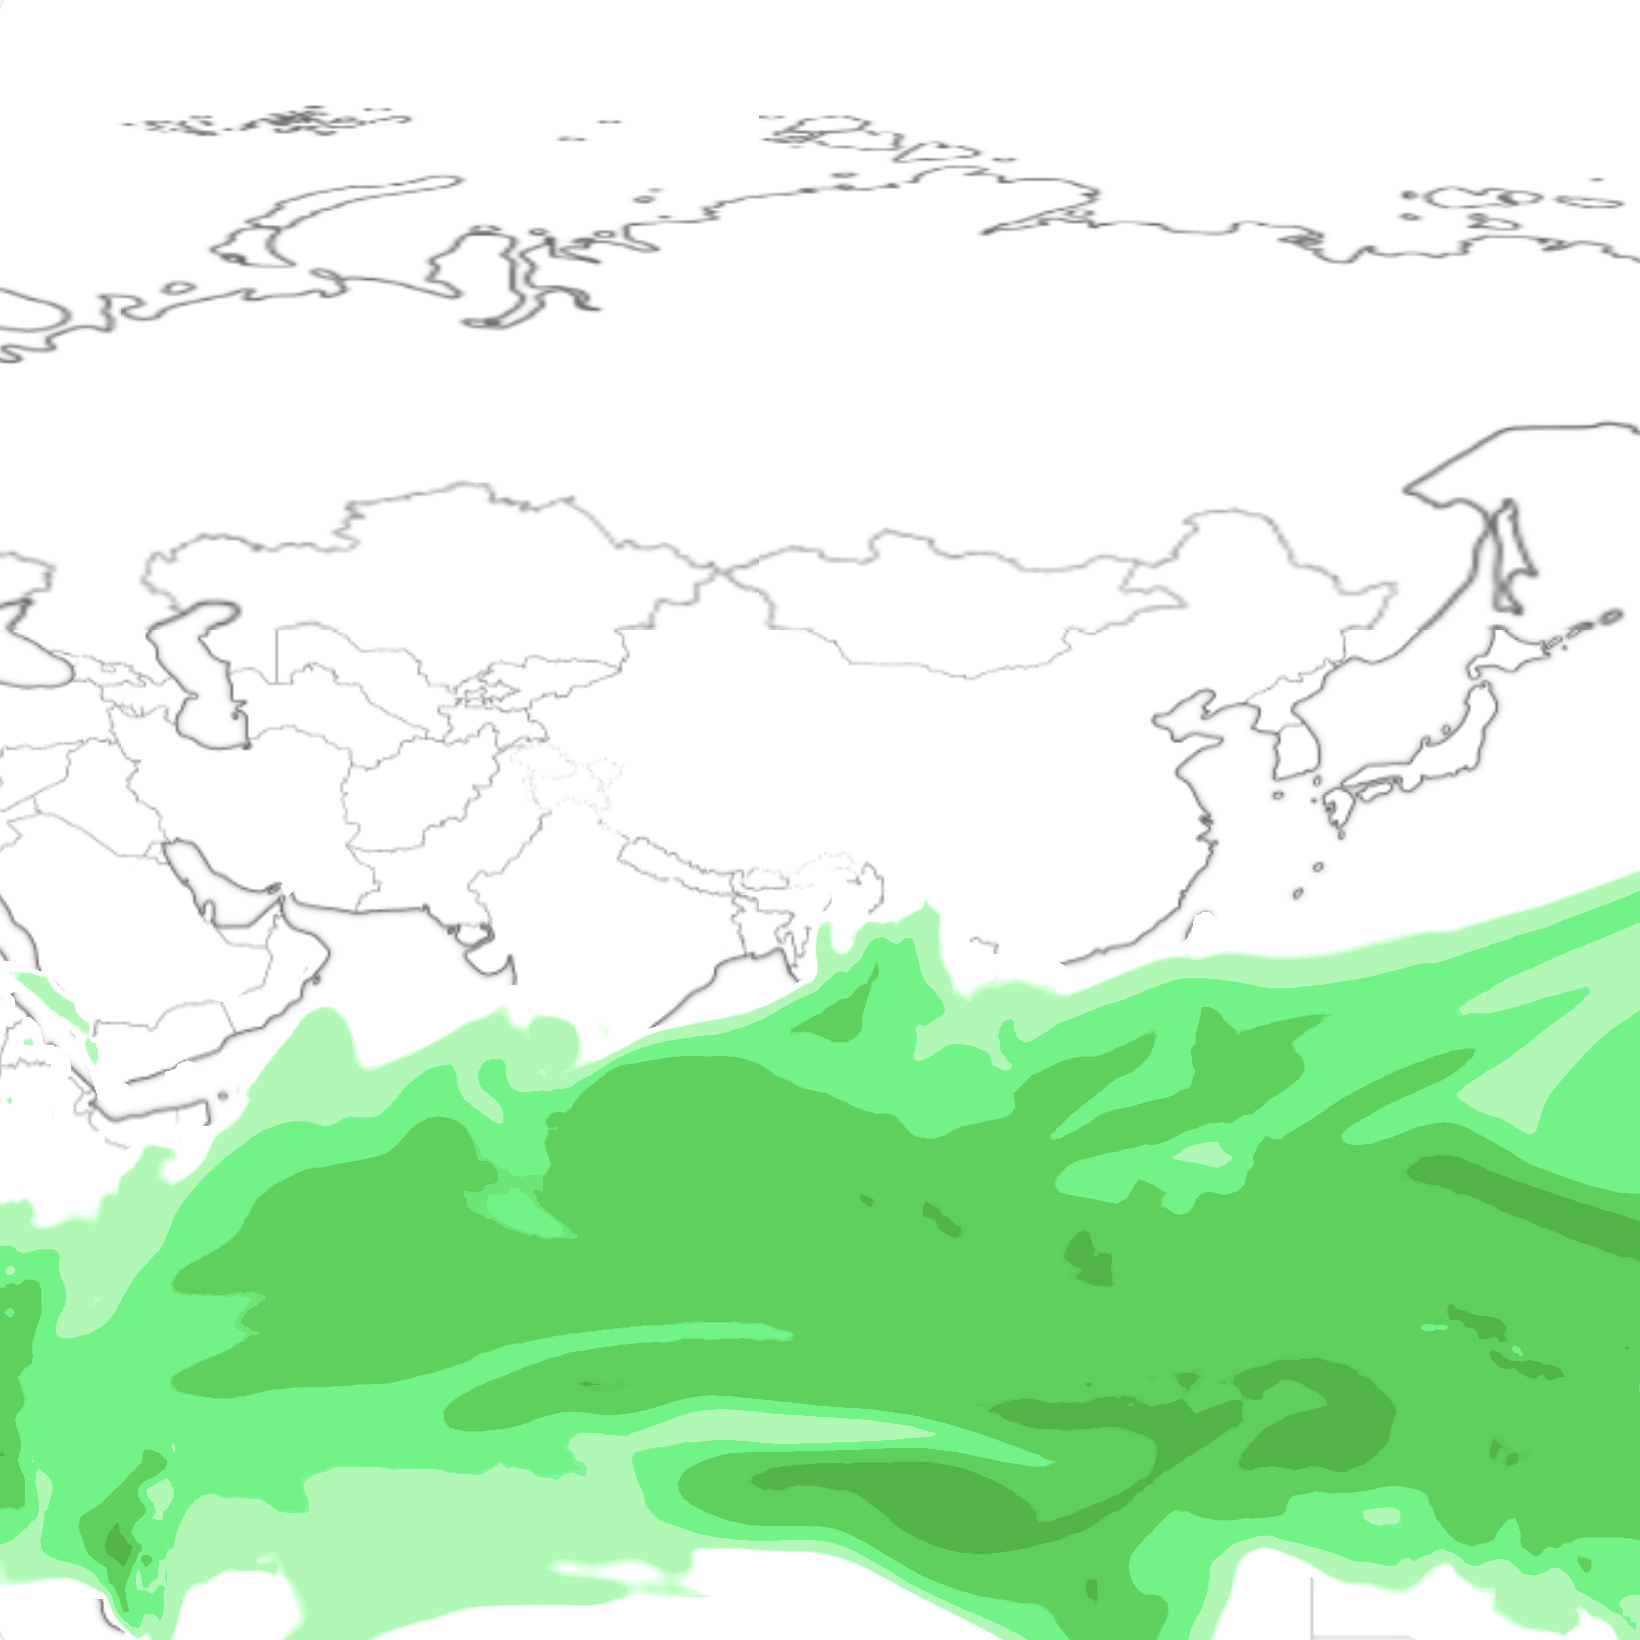
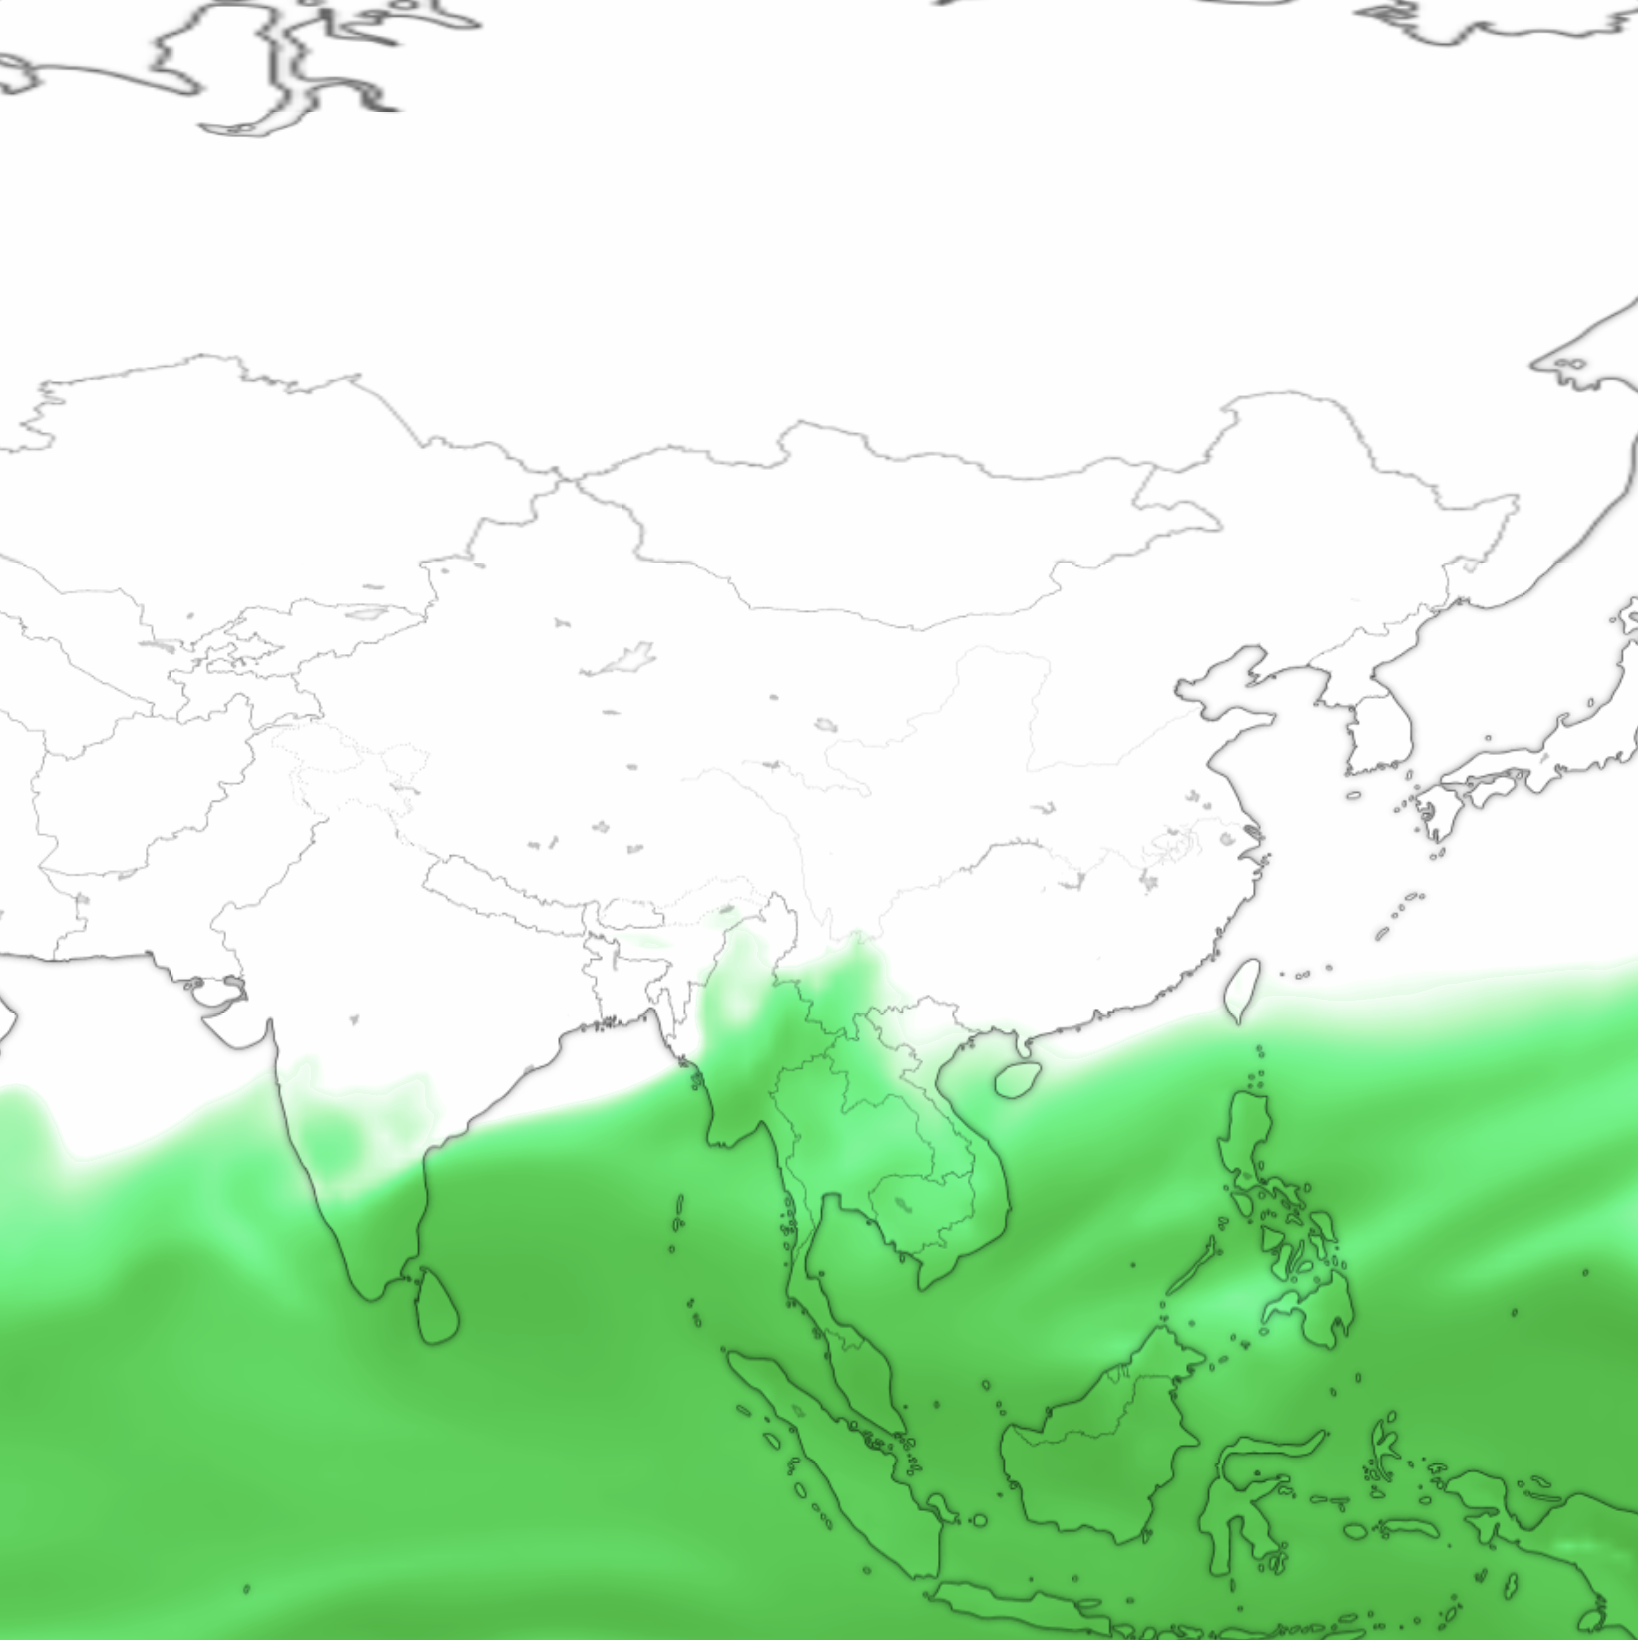
12161718

diff --git a/data-servers/SEVP_NMC_AILM_FENGWU(风乌)/PRMSL(海平面气压).html b/data-servers/SEVP_NMC_AILM_FENGWU(风乌)/PRMSL(海平面气压).html
@@ -143,10 +143,6 @@
         //  const paramsArrow=getArrowConfig();
         tiffLayers = new blendLayers(map, {
           url: url,
-          metadata: {
-            scale: 1, // 缩放比例
-            offset: 0, //偏移量
-          },
         })
         //绘制色斑图
         tiffLayers._render(params).then((object) => {
@@ -175,17 +171,17 @@
           interpolation: 'linear', // 渐变 linear  区间 nearest  网格 grid
           zIndex: 14,
           colors: [
-            [99000, [142, 179, 184, 1]],
-            [99500, [104, 180, 179, 1]],
-            [100000, [69, 167, 166, 1]],
-            [100300, [57, 131, 147, 1]],
-            [100600, [57, 118, 147, 1]],
-            [101000, [57, 91, 147, 1]],
-            [101500, [58, 117, 53, 1]],
-            [102000, [159, 161, 65, 1]],
-            [102200, [173, 136, 57, 1]],
-            [102500, [170, 84, 67, 1]],
-            [103000, [94, 60, 81, 1]],
+            [990, [142, 179, 184, 1]],
+            [995, [104, 180, 179, 1]],
+            [1000, [69, 167, 166, 1]],
+            [1003, [57, 131, 147, 1]],
+            [1006, [57, 118, 147, 1]],
+            [1010, [57, 91, 147, 1]],
+            [1015, [58, 117, 53, 1]],
+            [1020, [159, 161, 65, 1]],
+            [1022, [173, 136, 57, 1]],
+            [1025, [170, 84, 67, 1]],
+            [1030, [94, 60, 81, 1]],
           ],
         }
         return params

diff --git a/data-servers/SEVP_NMC_AILM_FUXI(伏羲)/PRMSL(海平面气压).html b/data-servers/SEVP_NMC_AILM_FUXI(伏羲)/PRMSL(海平面气压).html
@@ -143,10 +143,6 @@
         //  const paramsArrow=getArrowConfig();
         tiffLayers = new blendLayers(map, {
           url: url,
-          metadata: {
-            scale: 1, // 缩放比例
-            offset: 0, //偏移量
-          },
         })
         //绘制色斑图
         tiffLayers._render(params).then((object) => {
@@ -175,17 +171,17 @@
           interpolation: 'linear', // 渐变 linear  区间 nearest  网格 grid
           zIndex: 14,
           colors: [
-            [99000, [142, 179, 184, 1]],
-            [99500, [104, 180, 179, 1]],
-            [100000, [69, 167, 166, 1]],
-            [100300, [57, 131, 147, 1]],
-            [100600, [57, 118, 147, 1]],
-            [101000, [57, 91, 147, 1]],
-            [101500, [58, 117, 53, 1]],
-            [102000, [159, 161, 65, 1]],
-            [102200, [173, 136, 57, 1]],
-            [102500, [170, 84, 67, 1]],
-            [103000, [94, 60, 81, 1]],
+            [990, [142, 179, 184, 1]],
+            [995, [104, 180, 179, 1]],
+            [1000, [69, 167, 166, 1]],
+            [1003, [57, 131, 147, 1]],
+            [1006, [57, 118, 147, 1]],
+            [1010, [57, 91, 147, 1]],
+            [1015, [58, 117, 53, 1]],
+            [1020, [159, 161, 65, 1]],
+            [1022, [173, 136, 57, 1]],
+            [1025, [170, 84, 67, 1]],
+            [1030, [94, 60, 81, 1]],
           ],
         }
         return params

diff --git a/data-servers/SEVP_NMC_AILM_FCT(FourCastNet)/PRMSL(海平面气压).html b/data-servers/SEVP_NMC_AILM_FCT(FourCastNet)/PRMSL(海平面气压).html
@@ -175,17 +175,17 @@
           interpolation: 'linear', // 渐变 linear  区间 nearest  网格 grid
           zIndex: 14,
           colors: [
-            [99000, [142, 179, 184, 1]],
-            [99500, [104, 180, 179, 1]],
-            [100000, [69, 167, 166, 1]],
-            [100300, [57, 131, 147, 1]],
-            [100600, [57, 118, 147, 1]],
-            [101000, [57, 91, 147, 1]],
-            [101500, [58, 117, 53, 1]],
-            [102000, [159, 161, 65, 1]],
-            [102200, [173, 136, 57, 1]],
-            [102500, [170, 84, 67, 1]],
-            [103000, [94, 60, 81, 1]],
+            [990, [142, 179, 184, 1]],
+            [995, [104, 180, 179, 1]],
+            [1000, [69, 167, 166, 1]],
+            [1003, [57, 131, 147, 1]],
+            [1006, [57, 118, 147, 1]],
+            [1010, [57, 91, 147, 1]],
+            [1015, [58, 117, 53, 1]],
+            [1020, [159, 161, 65, 1]],
+            [1022, [173, 136, 57, 1]],
+            [1025, [170, 84, 67, 1]],
+            [1030, [94, 60, 81, 1]],
           ],
         }
         return params

diff --git a/data-servers/SEVP_NMC_AILM_GRAPH(GraphCast)/PRMSL(海平面气压).html b/data-servers/SEVP_NMC_AILM_GRAPH(GraphCast)/PRMSL(海平面气压).html
@@ -175,17 +175,17 @@
           interpolation: 'linear', // 渐变 linear  区间 nearest  网格 grid
           zIndex: 14,
           colors: [
-            [99000, [142, 179, 184, 1]],
-            [99500, [104, 180, 179, 1]],
-            [100000, [69, 167, 166, 1]],
-            [100300, [57, 131, 147, 1]],
-            [100600, [57, 118, 147, 1]],
-            [101000, [57, 91, 147, 1]],
-            [101500, [58, 117, 53, 1]],
-            [102000, [159, 161, 65, 1]],
-            [102200, [173, 136, 57, 1]],
-            [102500, [170, 84, 67, 1]],
-            [103000, [94, 60, 81, 1]],
+            [990, [142, 179, 184, 1]],
+            [995, [104, 180, 179, 1]],
+            [1000, [69, 167, 166, 1]],
+            [1003, [57, 131, 147, 1]],
+            [1006, [57, 118, 147, 1]],
+            [1010, [57, 91, 147, 1]],
+            [1015, [58, 117, 53, 1]],
+            [1020, [159, 161, 65, 1]],
+            [1022, [173, 136, 57, 1]],
+            [1025, [170, 84, 67, 1]],
+            [1030, [94, 60, 81, 1]],
           ],
         }
         return params

diff --git a/data-servers/SEVP_NMC_AILM_PANGU_NPY_DATA(盘古)/PRMSL(海平面气压).html b/data-servers/SEVP_NMC_AILM_PANGU_NPY_DATA(盘古)/PRMSL(海平面气压).html
@@ -175,17 +175,17 @@
           interpolation: 'linear', // 渐变 linear  区间 nearest  网格 grid
           zIndex: 14,
           colors: [
-            [99000, [142, 179, 184, 1]],
-            [99500, [104, 180, 179, 1]],
-            [100000, [69, 167, 166, 1]],
-            [100300, [57, 131, 147, 1]],
-            [100600, [57, 118, 147, 1]],
-            [101000, [57, 91, 147, 1]],
-            [101500, [58, 117, 53, 1]],
-            [102000, [159, 161, 65, 1]],
-            [102200, [173, 136, 57, 1]],
-            [102500, [170, 84, 67, 1]],
-            [103000, [94, 60, 81, 1]],
+            [990, [142, 179, 184, 1]],
+            [995, [104, 180, 179, 1]],
+            [1000, [69, 167, 166, 1]],
+            [1003, [57, 131, 147, 1]],
+            [1006, [57, 118, 147, 1]],
+            [1010, [57, 91, 147, 1]],
+            [1015, [58, 117, 53, 1]],
+            [1020, [159, 161, 65, 1]],
+            [1022, [173, 136, 57, 1]],
+            [1025, [170, 84, 67, 1]],
+            [1030, [94, 60, 81, 1]],
           ],
         }
         return params

diff --git a/data-servers/NAFP_ART_SFC_GLB_3HOR_PROD/NAFP_ART_SFC_GLB_3HOR_PROD_SPFH.html b/data-servers/NAFP_ART_SFC_GLB_3HOR_PROD/NAFP_ART_SFC_GLB_3HOR_PROD_SPFH.html
@@ -173,7 +173,7 @@
           zIndex: 14,
           // getColor(),
           colors: [
-            [6, [255, 255, 255, 0]],
+            [6, [255, 255, 255]],
             [8, [155, 249, 174, 0]],
             [10.0, [8, 247, 121]],
             [12.0, [0, 211, 72]],

diff --git a/data-servers/ECMWF_C3E_ENSEMBLE/ECMWF_C3E_ENSEMBLE_Q.html b/data-servers/ECMWF_C3E_ENSEMBLE/ECMWF_C3E_ENSEMBLE_Q.html
@@ -177,7 +177,7 @@
           zIndex: 14,
           // getColor(),
           colors: [
-            [6, [255, 255, 255, 0]],
+            [6, [255, 255, 255]],
             [8, [155, 249, 174]],
             [10.0, [8, 247, 121]],
             [12.0, [0, 211, 72]],

diff --git a/data-servers/SEVP_NMC_AILM_FENGWU(风乌)/SPFH(比湿).html b/data-servers/SEVP_NMC_AILM_FENGWU(风乌)/SPFH(比湿).html
@@ -177,7 +177,7 @@
           zIndex: 14,
           // getColor(),
           colors: [
-            [6, [255, 255, 255, 0]],
+            [6, [255, 255, 255]],
             [8, [155, 249, 174]],
             [10.0, [8, 247, 121]],
             [12.0, [0, 211, 72]],

diff --git a/data-servers/SEVP_NMC_AILM_GRAPH(GraphCast)/SPFH(比湿).html b/data-servers/SEVP_NMC_AILM_GRAPH(GraphCast)/SPFH(比湿).html
@@ -177,7 +177,7 @@
           zIndex: 14,
           // getColor(),
           colors: [
-            [6, [255, 255, 255, 0]],
+            [6, [255, 255, 255]],
             [8, [155, 249, 174]],
             [10.0, [8, 247, 121]],
             [12.0, [0, 211, 72]],

diff --git a/data-servers/SEVP_NMC_AILM_PANGU_NPY_DATA(盘古)/SPFH(比湿).html b/data-servers/SEVP_NMC_AILM_PANGU_NPY_DATA(盘古)/SPFH(比湿).html
@@ -177,7 +177,7 @@
           zIndex: 14,
           // getColor(),
           colors: [
-            [6, [255, 255, 255, 0]],
+            [6, [255, 255, 255]],
             [8, [155, 249, 174]],
             [10.0, [8, 247, 121]],
             [12.0, [0, 211, 72]],
